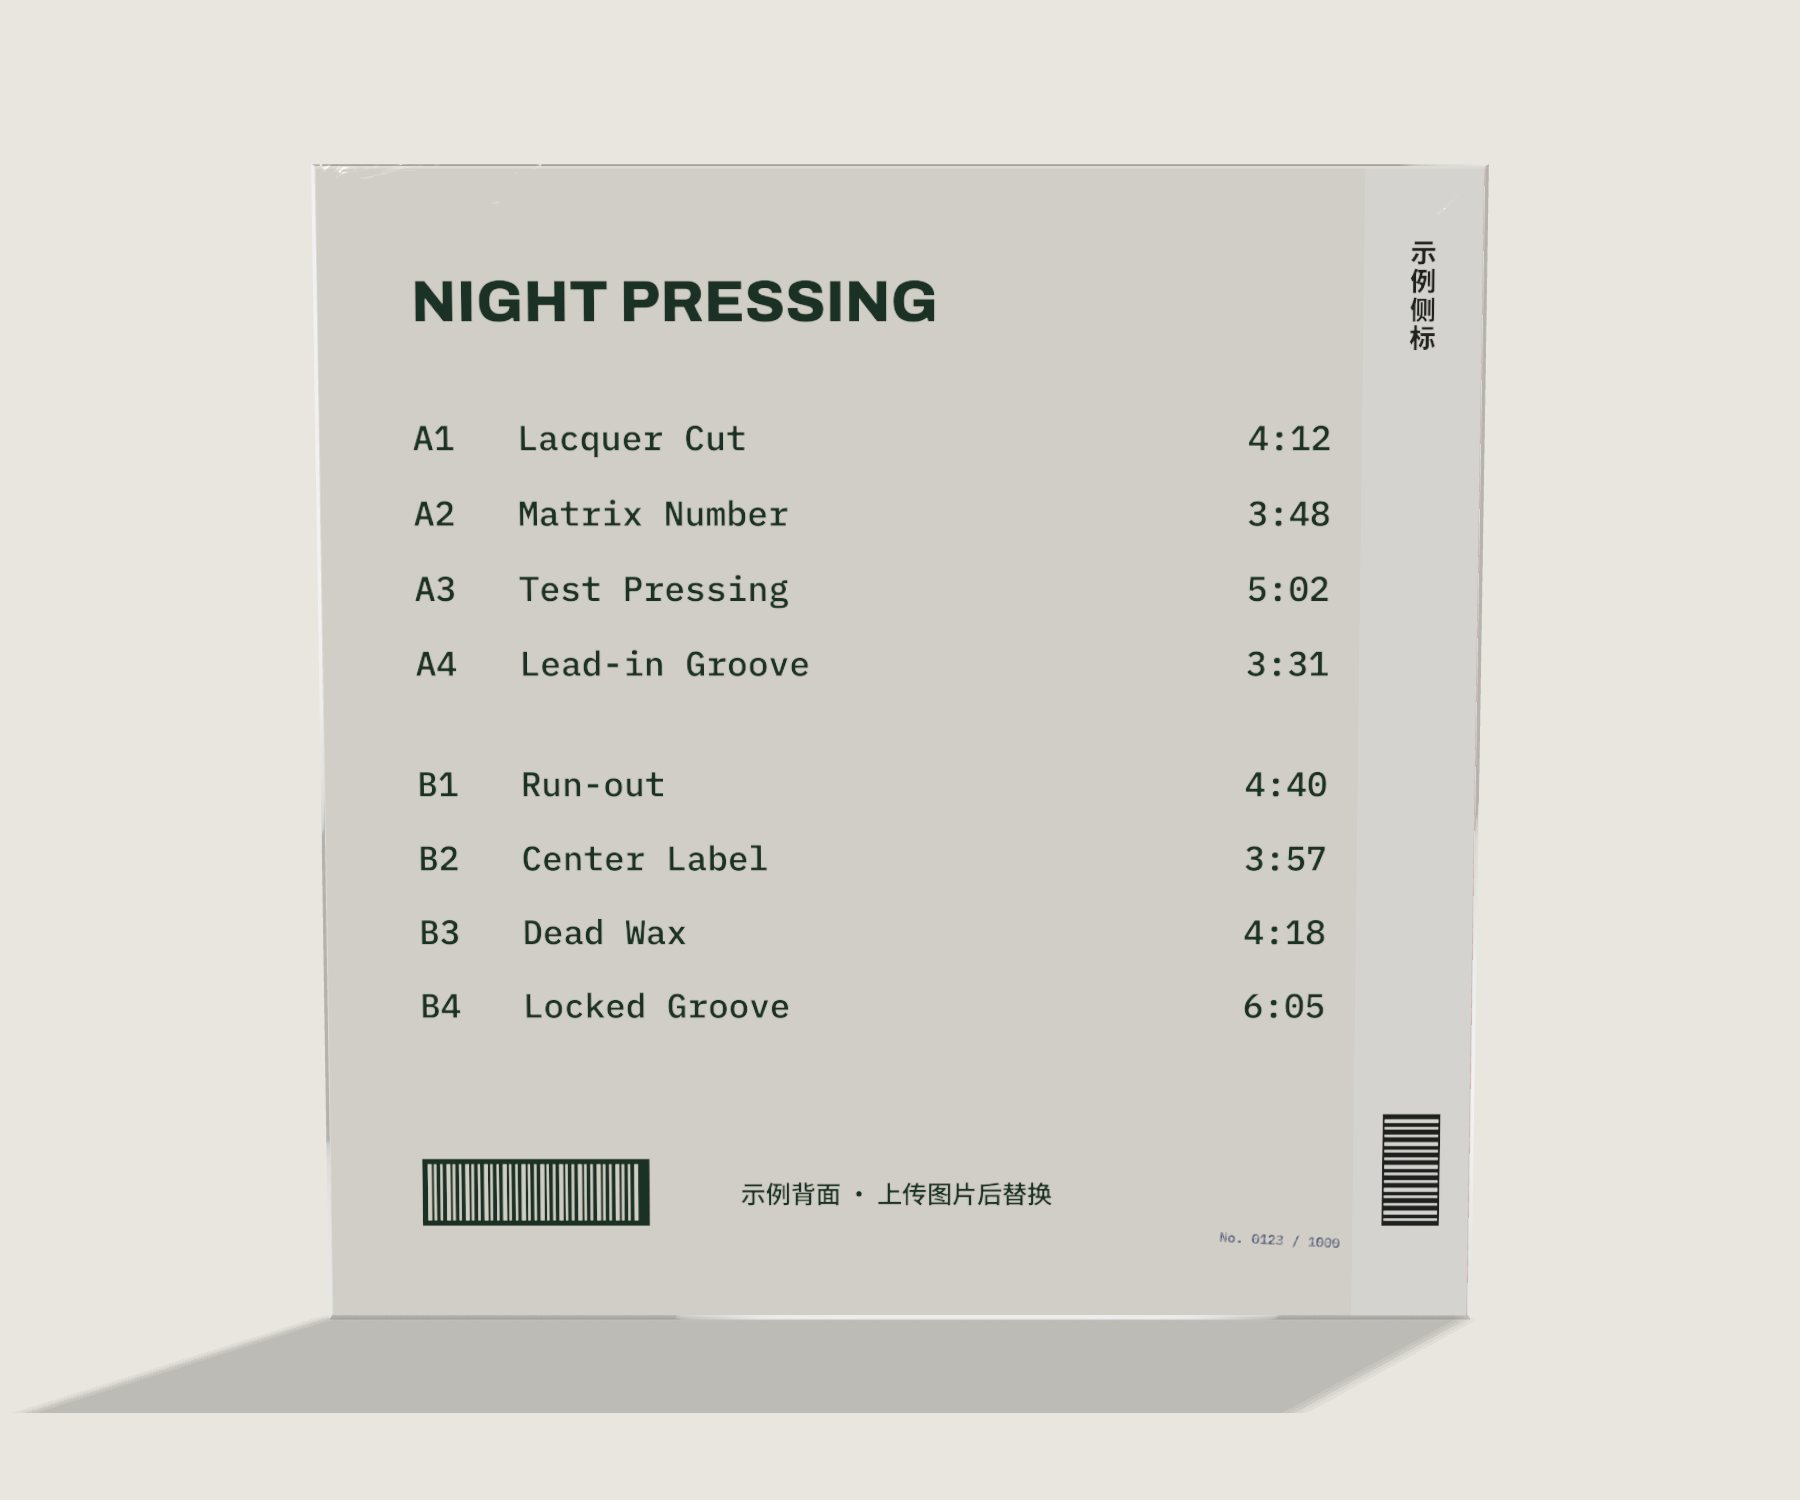
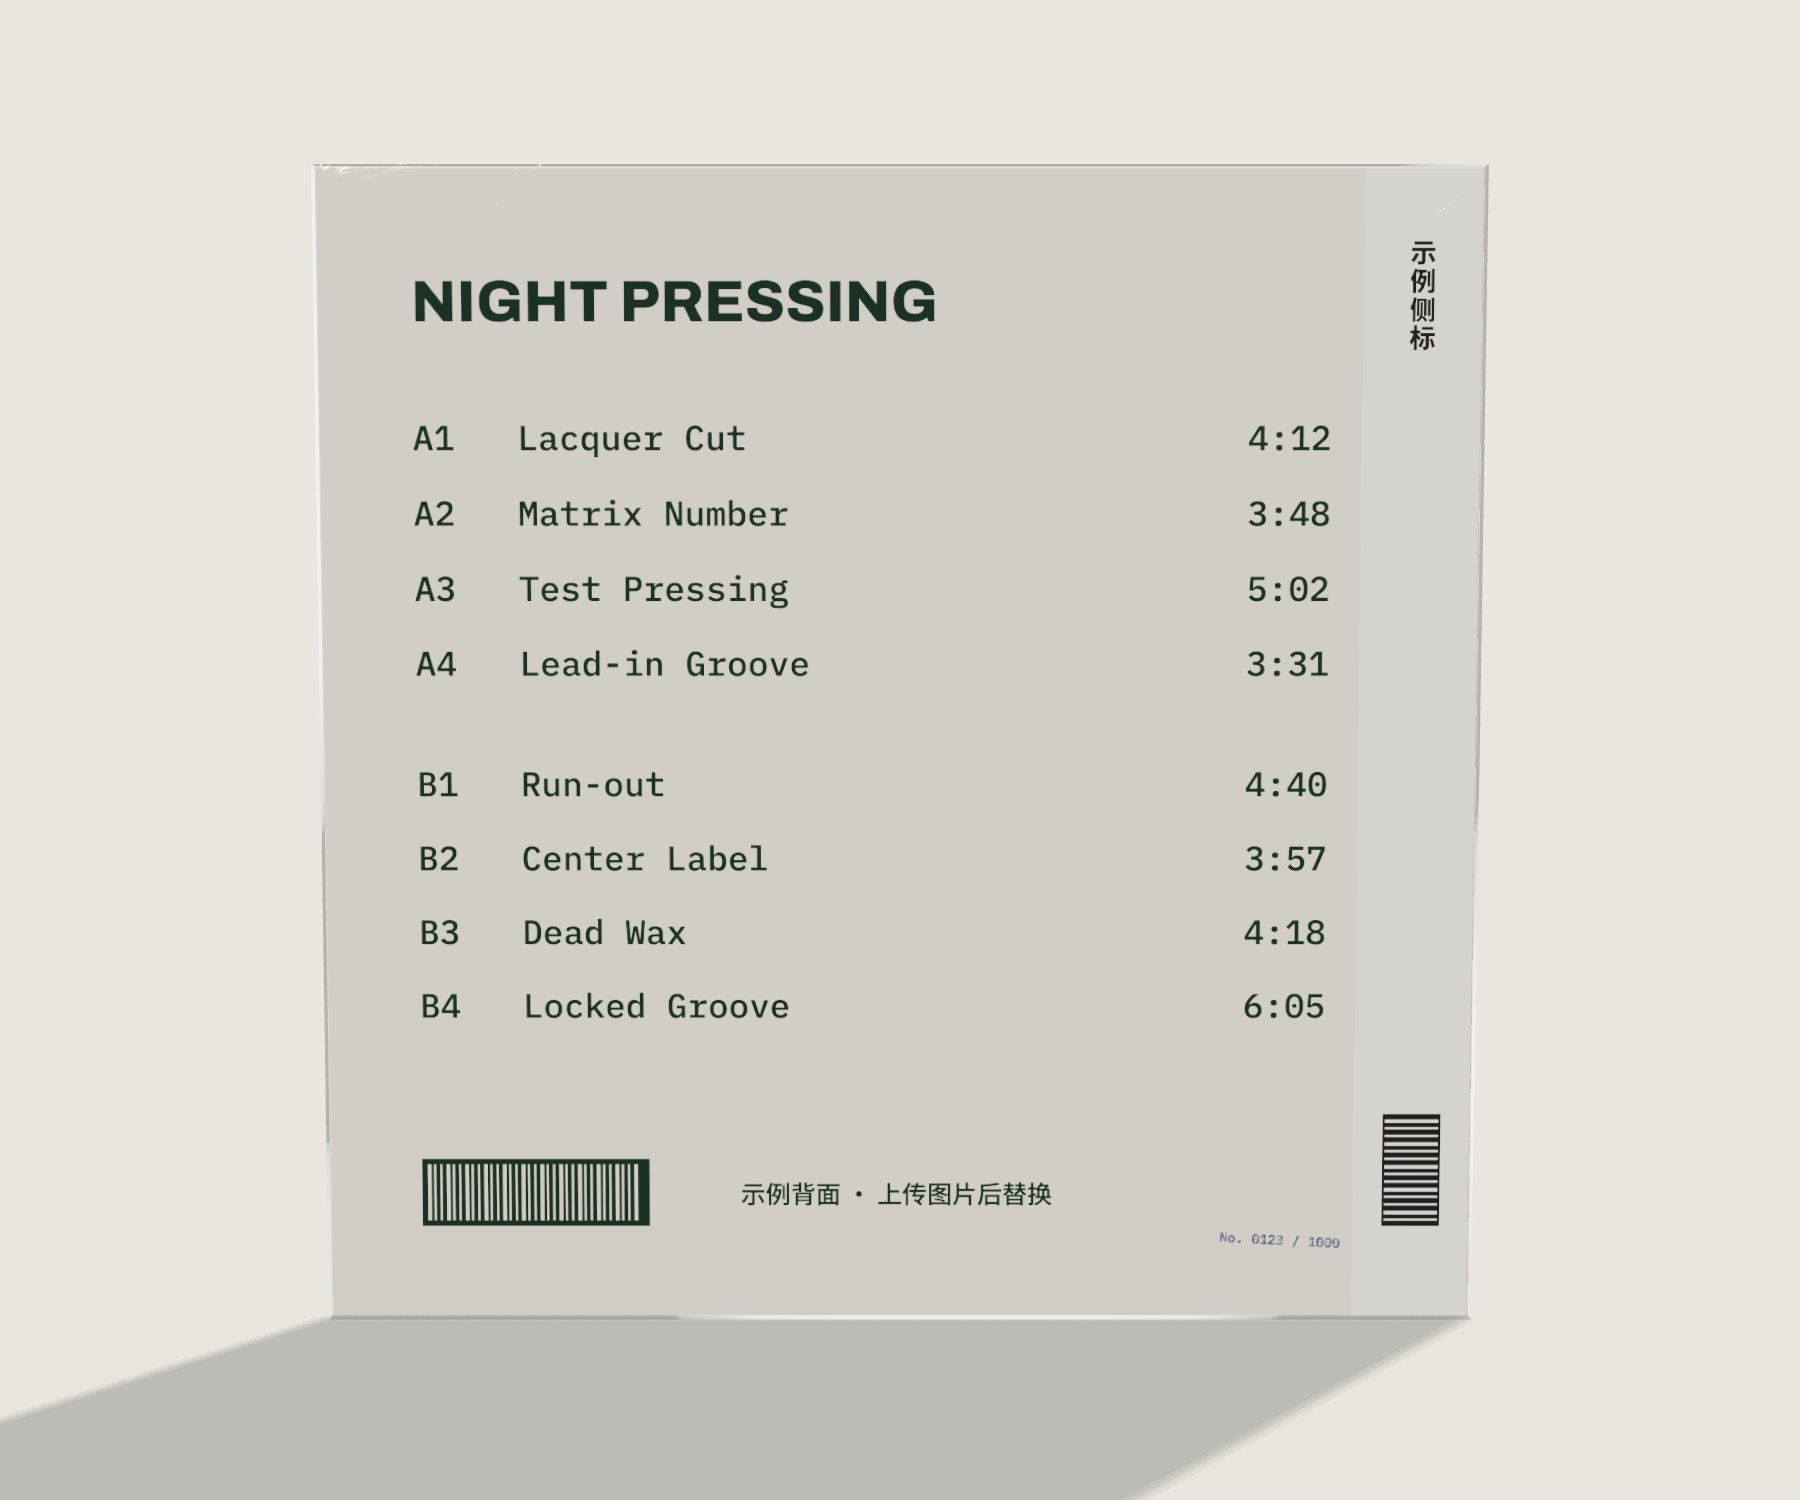
feat: hype sticker reads as coated paper stuck to the shrink wrap
- Sticker is a subdivided plane bent onto the film using the same
  displacement field as the wrap (wrapDisp), instead of a flat card
  floating above it
- Matte paper with a thin gloss varnish, paper tooth bump and
  alpha-to-coverage die-cut edges; soft contact shadow from its outline
- Sample sticker: more saturated yellow, no hard black outline;
  uploaded rectangular art gets rounded corners
- Default sticker rotation is now 0 degrees
- Rebuild README images

Changed region(s): [[0.0, 0.92, 0.7156, 1.0]]

diff --git a/index.html b/index.html
@@ -285,7 +285,7 @@ input[type="color"]{width:34px;height:26px;padding:0;border:1px solid var(--line
           <div class="slider"><label for="sticker-size">尺寸</label><input type="range" id="sticker-size" min="40" max="140" value="76"><output id="sticker-size-v">76 mm</output></div>
           <div class="slider"><label for="sticker-x">水平</label><input type="range" id="sticker-x" min="-120" max="120" value="88"><output id="sticker-x-v">88 mm</output></div>
           <div class="slider"><label for="sticker-y">垂直</label><input type="range" id="sticker-y" min="-120" max="120" value="92"><output id="sticker-y-v">92 mm</output></div>
-          <div class="slider"><label for="sticker-rot">角度</label><input type="range" id="sticker-rot" min="-45" max="45" value="-8"><output id="sticker-rot-v">-8°</output></div>
+          <div class="slider"><label for="sticker-rot">角度</label><input type="range" id="sticker-rot" min="-45" max="45" value="0"><output id="sticker-rot-v">0°</output></div>
         </div>
       </section>
 
@@ -334,7 +334,7 @@ const $ = id => document.getElementById(id);
 const state = {
   finish:'satin', sleeveOn:true, sleeveColor:'#f3f1ea', sleeveX:.35, recordX:.40, recordRot:0,
   vinyl:'black', vinylColor:'#c8392b', vinyl2:'black', vinyl2Color:'#d9a441', wrapOn:true, wrinkle:1, gloss:1,
-  stickerOn:true, stickerShape:'circle', stickerSize:7.6, stickerX:8.8, stickerY:9.2, stickerRot:-8,
+  stickerOn:true, stickerShape:'circle', stickerSize:7.6, stickerX:8.8, stickerY:9.2, stickerRot:0,
   numOn:true, numCur:123, numTotal:1000, numPrefix:'No.', numFormat:'slash', numFont:'auto', numPlace:'back', numFinish:'stamp', numColor:'#25336f',
   numX:10.5, numY:-13.6, numSize:.5, numRot:-3,
   jacketType:'single', gateOpen:0, lpCount:1, sleeve2X:.6, record2X:.3, obiOn:true, obiWidth:3.2, insertOn:true, insertX:0,
@@ -391,9 +391,9 @@ function sampleLabel(side){const s=1024,c=canvas(s,s),g=c.getContext('2d'),m=s/2
   g.font=`500 ${s*.036}px ${BODY}`;g.fillText('示例标签',m,s*.66);
   return c}
 function sampleSticker(shape){const w=1024,h=shape==='rect'?640:1024,c=canvas(w,h),g=c.getContext('2d');
-  g.fillStyle='#f3d649';g.beginPath();
+  g.fillStyle='#f7cf1d';g.beginPath();
   if(shape==='rect')g.roundRect(6,6,w-12,h-12,40);else g.arc(w/2,h/2,w/2-6,0,Math.PI*2);
-  g.fill();g.strokeStyle='#1a1e1b';g.lineWidth=10;g.stroke();
+  g.fill();g.strokeStyle='rgba(120,92,10,.35)';g.lineWidth=6;g.stroke();
   g.fillStyle='#1a1e1b';g.textAlign='center';g.textBaseline='middle';
   const k=shape==='rect'?.8:1;
   g.font=`700 ${150*k}px ${BODY}`;g.fillText('首版限定',w/2,h*.36);
@@ -592,7 +592,11 @@ function wrapMaterial(){
       #include <opaque_fragment>`)};
   m.customProgramCacheKey=()=>'shrink-wrap-v1';return m}
 const wrapMat=wrapMaterial(),wrapMouthMat=wrapMaterial();
-const stickerMat=new THREE.MeshPhysicalMaterial({map:tex.sticker,roughness:.32,clearcoat:.6,clearcoatRoughness:.12,transparent:true,alphaTest:.02});
+// Coated paper: matte stock with a thin glossy varnish that catches the studio strips; die-cut edge comes
+// from the texture alpha, smoothed by alpha-to-coverage instead of a hard alpha test.
+const stickerMat=new THREE.MeshPhysicalMaterial({map:tex.sticker,roughness:.55,metalness:0,clearcoat:.8,clearcoatRoughness:.2,
+  bumpMap:bump,bumpScale:.12,envMap:studioEnv,envMapIntensity:.16,alphaTest:.5,alphaToCoverage:true,side:THREE.FrontSide});
+const stickerShadowMat=new THREE.MeshBasicMaterial({color:0x000000,transparent:true,opacity:.28,depthWrite:false});
 
 // ---------- Geometry builders ----------
 function remapUV(geo,scaleX,scaleY=scaleX){const p=geo.attributes.position,uv=geo.attributes.uv;for(let i=0;i<p.count;i++)uv.setXY(i,p.getX(i)/scaleX+.5,p.getY(i)/scaleY+.5);return geo}
@@ -657,35 +661,55 @@ const record=makeRecord(labelMatA,labelMatB,vinyl1),record2=makeRecord(labelMatC
 
 // Shrink wrap shell: displaced box. Faces stay tight at the box edges (no cracks), wrinkle near edges and corners.
 const wrap=new THREE.Mesh(undefined,[wrapMouthMat,wrapMat,wrapMat,wrapMat,wrapMat,wrapMat]);wrap.renderOrder=2;scene.add(wrap);
+// Film displacement at (x, y) on the front face. Shared by the wrap mesh and the sticker that sits on it,
+// so a sticker follows the film's undulation instead of floating flat above it.
+const WRAP_WAVES=(()=>{const r=rng(21);return Array.from({length:22},()=>({a:r()*Math.PI,f:.3+r()*1.9,ph:r()*6.283,amp:.4+r()*.6}))})();
+function wrapDisp(x,y,strength){
+  const w=J.w+2*WRAP.pad,h=J.h+2*WRAP.pad,ex=w/2-Math.abs(x),ey=h/2-Math.abs(y),m=Math.min(ex,ey);
+  let s=0;for(const v of WRAP_WAVES)s+=v.amp*Math.sin((Math.cos(v.a)*x+Math.sin(v.a)*y)*v.f+v.ph);s/=Math.sqrt(WRAP_WAVES.length);
+  const cx=Math.sign(x)*w/2,cy=Math.sign(y)*h/2,ang=Math.atan2(y-cy,x-cx),crease=Math.pow(Math.abs(Math.sin(ang*7+x*.13)),5);
+  const edge=Math.exp(-m/1.5),corner=Math.exp(-Math.hypot(ex,ey)/3.2),tight=THREE.MathUtils.smoothstep(m,0,.35);
+  return strength*tight*(.018*s+edge*.05*(s*.5+.5)+corner*.11*crease)}
 function buildWrap(strength){
-  const w=J.w+2*WRAP.pad,h=J.h+2*WRAP.pad,d=jacketDepth()+WRAP.extra,g=new THREE.BoxGeometry(w,h,d,180,180,2),p=g.attributes.position,n=g.attributes.normal,r=rng(21);
-  const waves=Array.from({length:22},()=>({a:r()*Math.PI,f:.3+r()*1.9,ph:r()*6.283,amp:.4+r()*.6}));
+  const w=J.w+2*WRAP.pad,h=J.h+2*WRAP.pad,d=jacketDepth()+WRAP.extra,g=new THREE.BoxGeometry(w,h,d,180,180,2),p=g.attributes.position,n=g.attributes.normal;
   for(let i=0;i<p.count;i++){
     const nz=n.getZ(i);if(Math.abs(nz)<.5)continue;
-    const x=p.getX(i),y=p.getY(i),ex=w/2-Math.abs(x),ey=h/2-Math.abs(y),m=Math.min(ex,ey);
-    let s=0;for(const v of waves)s+=v.amp*Math.sin((Math.cos(v.a)*x+Math.sin(v.a)*y)*v.f+v.ph);s/=Math.sqrt(waves.length);
-    const cx=Math.sign(x)*w/2,cy=Math.sign(y)*h/2,ang=Math.atan2(y-cy,x-cx),crease=Math.pow(Math.abs(Math.sin(ang*7+x*.13)),5);
-    const edge=Math.exp(-m/1.5),corner=Math.exp(-Math.hypot(ex,ey)/3.2),tight=THREE.MathUtils.smoothstep(m,0,.35);
-    const disp=strength*tight*(.018*s+edge*.05*(s*.5+.5)+corner*.11*crease);
-    p.setZ(i,p.getZ(i)+Math.sign(nz)*disp);
+    p.setZ(i,p.getZ(i)+Math.sign(nz)*wrapDisp(p.getX(i),p.getY(i),strength));
   }
   g.computeVertexNormals();
   if(wrap.geometry)wrap.geometry.dispose();wrap.geometry=g;
 }
 
 // Hype sticker sits on the film's front face.
-const sticker=new THREE.Mesh(undefined,stickerMat);sticker.renderOrder=3;sticker.castShadow=false;scene.add(sticker);
+const sticker=new THREE.Mesh(undefined,stickerMat);sticker.castShadow=false;scene.add(sticker);
+const stickerShadow=new THREE.Mesh(undefined,stickerShadowMat);stickerShadow.renderOrder=3;sticker.add(stickerShadow);
+const stickerDims=()=>state.stickerShape==='rect'?[1.6,1]:[1,1];
 function buildSticker(){
-  let g;if(state.stickerShape==='rect'){const w=1.6,h=1,rr=.08,s=new THREE.Shape();s.roundRect?0:0;
-    s.moveTo(-w/2+rr,-h/2);s.lineTo(w/2-rr,-h/2);s.quadraticCurveTo(w/2,-h/2,w/2,-h/2+rr);s.lineTo(w/2,h/2-rr);s.quadraticCurveTo(w/2,h/2,w/2-rr,h/2);s.lineTo(-w/2+rr,h/2);s.quadraticCurveTo(-w/2,h/2,-w/2,h/2-rr);s.lineTo(-w/2,-h/2+rr);s.quadraticCurveTo(-w/2,-h/2,-w/2+rr,-h/2);
-    g=remapUV(new THREE.ShapeGeometry(s,12),w,h)}
-  else g=remapUV(new THREE.CircleGeometry(.5,96),1);
+  const [w,h]=stickerDims(),g=new THREE.PlaneGeometry(w,h,32,32);g.userData.base=g.attributes.position.array.slice();
   if(sticker.geometry)sticker.geometry.dispose();sticker.geometry=g;
+  if(stickerShadow.geometry)stickerShadow.geometry.dispose();stickerShadow.geometry=new THREE.PlaneGeometry(w*1.12,h*1.12);
 }
+// Bend the sticker onto the film under it (or keep it flat on the board when there is no wrap).
+function conformSticker(){
+  const g=sticker.geometry;if(!g?.userData.base)return;   // not built yet
+  const p=g.attributes.position,base=g.userData.base,S=state.stickerSize,a=THREE.MathUtils.degToRad(state.stickerRot),c=Math.cos(a),sn=Math.sin(a);
+  let lo=Infinity;
+  for(let i=0;i<p.count;i++){const u=base[i*3],v=base[i*3+1],d=state.wrapOn?wrapDisp(state.stickerX+S*(u*c-v*sn),state.stickerY+S*(u*sn+v*c),state.wrinkle):0;p.setZ(i,d);lo=Math.min(lo,d)}
+  p.needsUpdate=true;g.computeVertexNormals();
+  stickerShadow.position.set(.012,-.02,lo-.003);
+}
+// Soft shadow from the sticker's own outline, so any die-cut shape (or uploaded artwork) casts its shape.
+function stickerShadowTexture(src){
+  const W=512,H=Math.round(512*src.height/src.width),c=canvas(W,H),g=c.getContext('2d'),k=1/1.12;  // shadow plane is 12% larger
+  g.filter='blur(14px)';g.drawImage(src,W*(1-k)/2,H*(1-k)/2,W*k,H*k);g.filter='none';
+  g.globalCompositeOperation='source-in';g.fillStyle='#000';g.fillRect(0,0,W,H);
+  const t=new THREE.CanvasTexture(c);t.colorSpace=THREE.SRGBColorSpace;return t}
 function stickerTexture(){
   const shape=state.stickerShape,c=userSticker.img?fitImage(userSticker.img,1024,shape==='rect'?640:1024):sampleSticker(shape);
-  if(userSticker.img&&shape==='circle'){const g=c.getContext('2d');g.globalCompositeOperation='destination-in';g.beginPath();g.arc(512,512,506,0,Math.PI*2);g.fill()}
+  if(userSticker.img){const g=c.getContext('2d');g.globalCompositeOperation='destination-in';g.beginPath();
+    if(shape==='circle')g.arc(512,512,506,0,Math.PI*2);else g.roundRect(0,0,c.width,c.height,48);g.fill()}
   setTex('sticker',colorTex(c),stickerMat);
+  const old=stickerShadowMat.map;stickerShadowMat.map=stickerShadowTexture(c);stickerShadowMat.needsUpdate=true;old?.dispose();
 }
 
 // ---------- Limited-edition number ----------
@@ -736,7 +760,7 @@ function placeNumber(){
   if(p==='back'){scene.add(numAnchor);numAnchor.position.set(0,0,-J.d/2-eps);numAnchor.rotation.y=Math.PI}
   else if(p==='front'){if(isGate()){coverMesh.add(numAnchor);numAnchor.position.set(0,0,J.board/2+eps)}else{scene.add(numAnchor);numAnchor.position.set(0,0,J.d/2+eps)}}
   else if(p==='obi'){const {F,eps:oe}=obiLayout();obi.add(numAnchor);numAnchor.position.set(-J.w/2+F/2,0,frontZ()+oe+eps)}
-  else{sticker.add(numAnchor);const k=1/state.stickerSize;numAnchor.scale.setScalar(k);numAnchor.position.set(0,0,eps*k)}
+  else{sticker.add(numAnchor);const k=1/state.stickerSize;numAnchor.scale.set(k,k,1);numAnchor.position.set(0,0,.03)}
   numAnchor.visible=state.numOn;
   numMesh.position.set(state.numX,state.numY,0);numMesh.rotation.z=THREE.MathUtils.degToRad(state.numRot);numMesh.scale.set(state.numSize*numAspect,state.numSize,1)}
 
@@ -766,8 +790,8 @@ function pose(){
   wrapStrength.value=state.gloss;wrapMat.normalScale.setScalar(.35*state.wrinkle);wrapMouthMat.normalScale.setScalar(.35*state.wrinkle);
   obi.visible=state.obiOn&&!opened;
   sticker.visible=state.stickerOn&&!opened;
-  sticker.position.set(state.stickerX,state.stickerY,state.wrapOn?wrapFront+.05+.03*state.wrinkle:frontZ()+.03);
-  sticker.scale.setScalar(state.stickerSize);sticker.rotation.z=THREE.MathUtils.degToRad(state.stickerRot);
+  sticker.position.set(state.stickerX,state.stickerY,(state.wrapOn?wrapFront:frontZ())+.008);
+  sticker.scale.set(state.stickerSize,state.stickerSize,1);sticker.rotation.z=THREE.MathUtils.degToRad(state.stickerRot);conformSticker();
   placeNumber();
 }
 function applyLpCount(){
